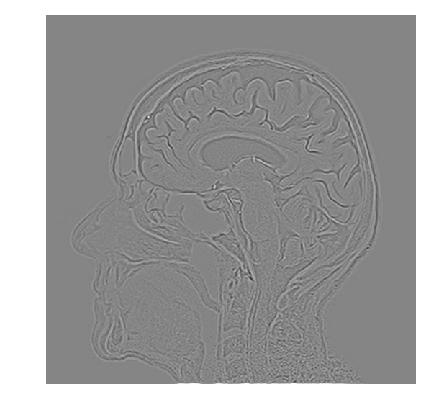
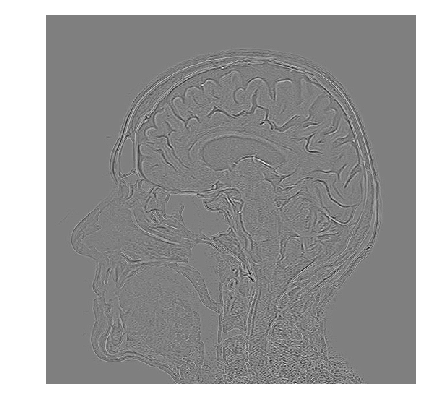
's'

diff --git a/777777_cv/e.py b/777777_cv/e.py
@@ -72,12 +72,10 @@ for x in range(len(one)):
 
 # 3. LoG (Smooth)
 for x in range(len(one)):
-    s = 1
-    w = 3
-    t = (((w - 1)/2)-0.5)/s
+    s = 1.5
     temp = scipy.ndimage.filters.gaussian_filter(
         one[x,:,:],
-        sigma = s,truncate = t
+        sigma = s
         )
     
     lap_kernel = np.array([
@@ -86,13 +84,25 @@ for x in range(len(one)):
         [0,1,0]
     ])
 
-    result = convolve2d(temp,lap_kernel)
+    result = cv2.filter2D(temp,-1,lap_kernel) 
     plt.axis('off')
     plt.imshow(result,cmap='gray')
     plt.savefig(str(x) + '.png',bbox_inches='tight')
     # plt.show()
 
+# 4. LoG (no Smooth)
+for x in range(len(one)):
+    lap_kernel = np.array([
+        [0,1,0],
+        [1,-4,1],
+        [0,1,0]
+    ])
 
+    result = cv2.filter2D(one[x,:,:],-1,lap_kernel) 
+    plt.axis('off')
+    plt.imshow(result,cmap='gray')
+    plt.savefig(str(x) + '.png',bbox_inches='tight')
+    # plt.show()
 
 
 
